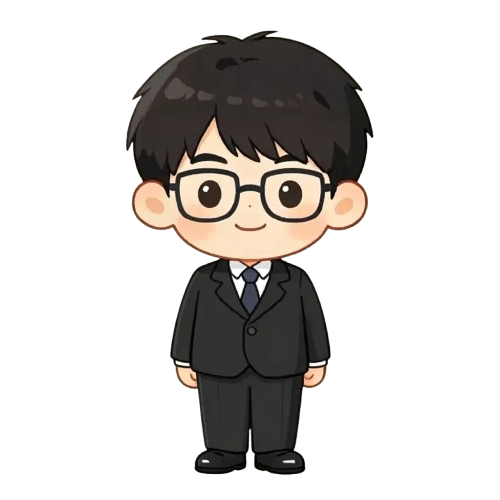
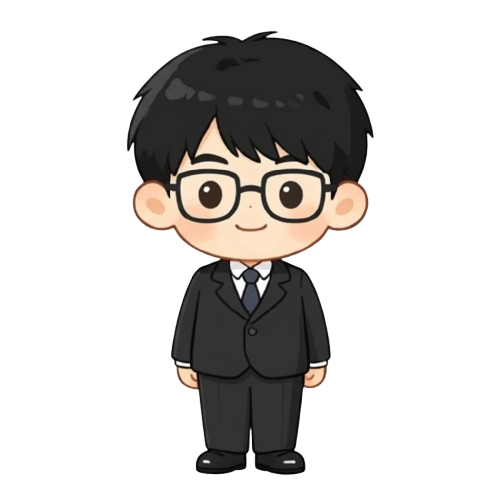
update: refresh louis-2.png (立正) image + update page title

diff --git a/app/layout.tsx b/app/layout.tsx
@@ -14,7 +14,7 @@ const jetbrainsMono = JetBrains_Mono({
 })
 
 export const metadata: Metadata = {
-  title: 'AI Proposal System',
+  title: 'Judge AI Proposal System',
   description: 'Submit your proposals powered by advanced AI intelligence',
 }
 
